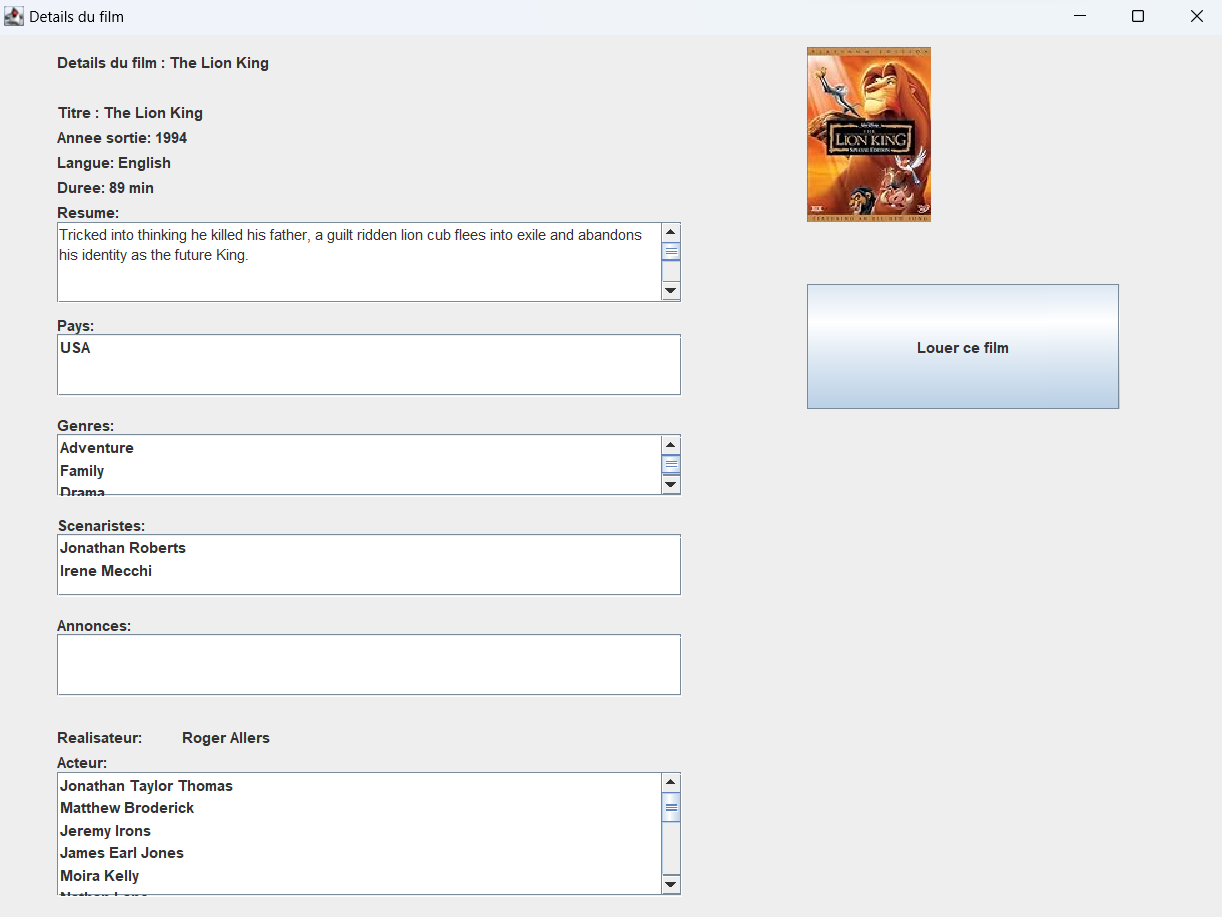
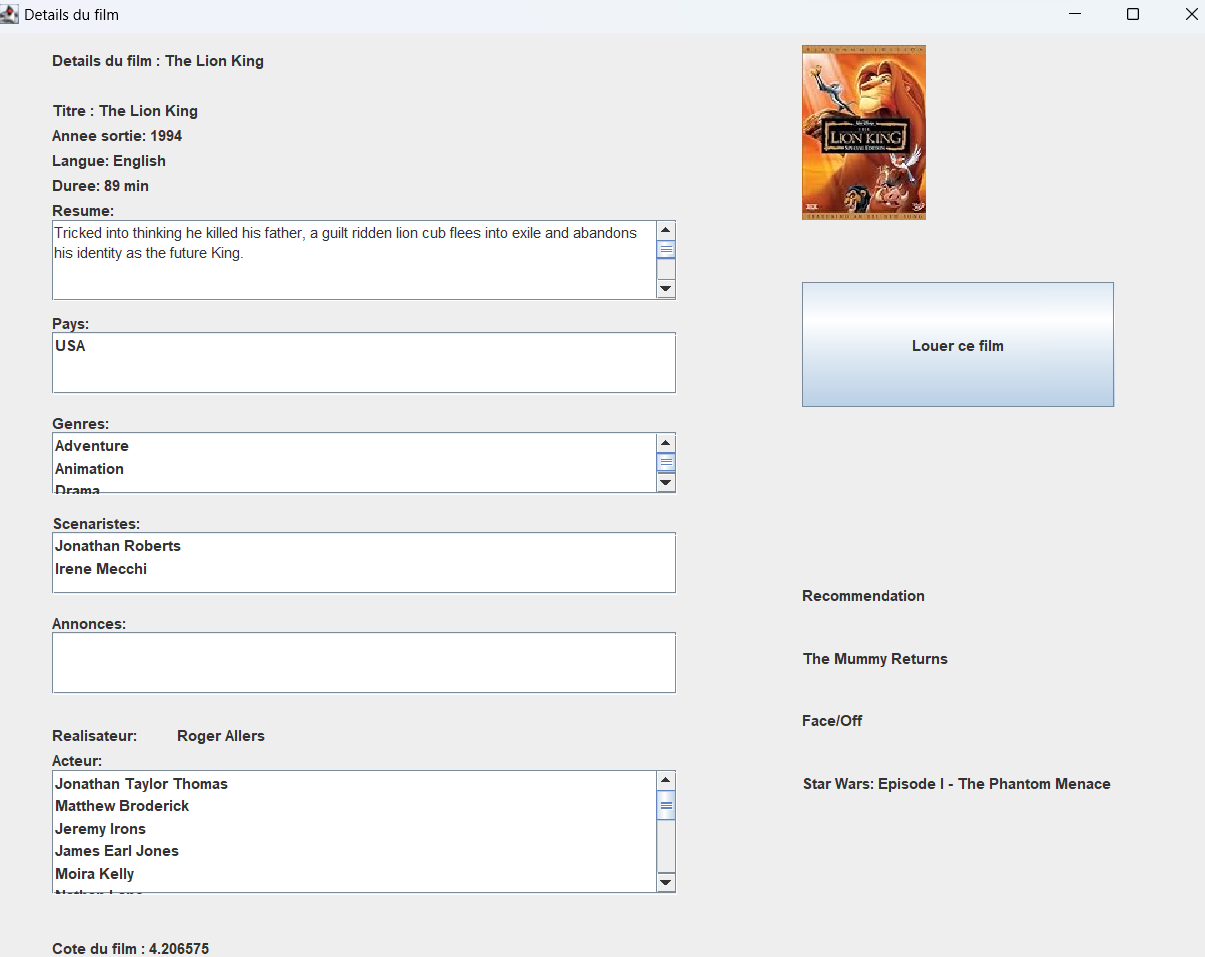
Update academic.html

diff --git a/views/academic.html b/views/academic.html
@@ -48,14 +48,17 @@
                     <p>As part of the <b>High Performance Databases (LOG660)</b> course, we were tasked with developing a Full Stack application named <b>Webflix</b>, 
                         allowing clients to rent movies in accordance with their subscriptions. Our data management required the utilization of an Oracle database, 
                         and interaction with this data was achieved through an object-oriented program. 
-                        This assignment was structured in two phases. 
-                        <br>
+                        This assignment was structured in three phases. 
+                        <br><br>
                         In the initial phase, we focused on designing class and relational diagrams for the application, 
                         tailored to various use cases. Additionally, we were responsible for importing a vast amount of data into the database from an XML file containing 
                         thousands of entries.
-                        <br>
+                        <br><br>
                         For the second phase of this assignment, our task was to design and develop a user interface (UI) for the application. Within this interface, 
                         clients could log in to access detailed information about movies, actors and directors. Moreover, clients with eligible subscriptions had the ability to rent movies.
+                        <br><br>
+                        In the third phase, our task included establishing an analytical data system to evaluate rental frequencies across various dimensions. 
+                        Additionally, we were tasked with implementing a recommendation function for each movie, by getting the client ratings from an external database.
                     </p>
                     <br>
 
@@ -69,10 +72,12 @@
                         <li>Created a bridge between an object-oriented program and a relational database using an ORM (Hibernate).</li>
                         <li>Implemented the user interface using Java and JavaSwing including a log in system, a movie searching window and a movie details window.</li>
                         <li>Created a user manual to assist the client in using the application.</li>
+                        <li>Designed and optimized the star schema for the analytical data system.</li>
+                        <li>Utilized the ETL (Extract, Transform, Load) process to transform data and seamlessly insert it into both fact and dimensions tables.</li>
                     </ul>
 
                     <br>
-                    <h4>Work time: 7 weeks</h4>
+                    <h4>Work time: 10 weeks</h4>
                     <h4>Grade for part 1 : 95%</h4>
                     <h4>Grade for part 2 : 92%</h4>
                     <h4>Skills:</h4>
